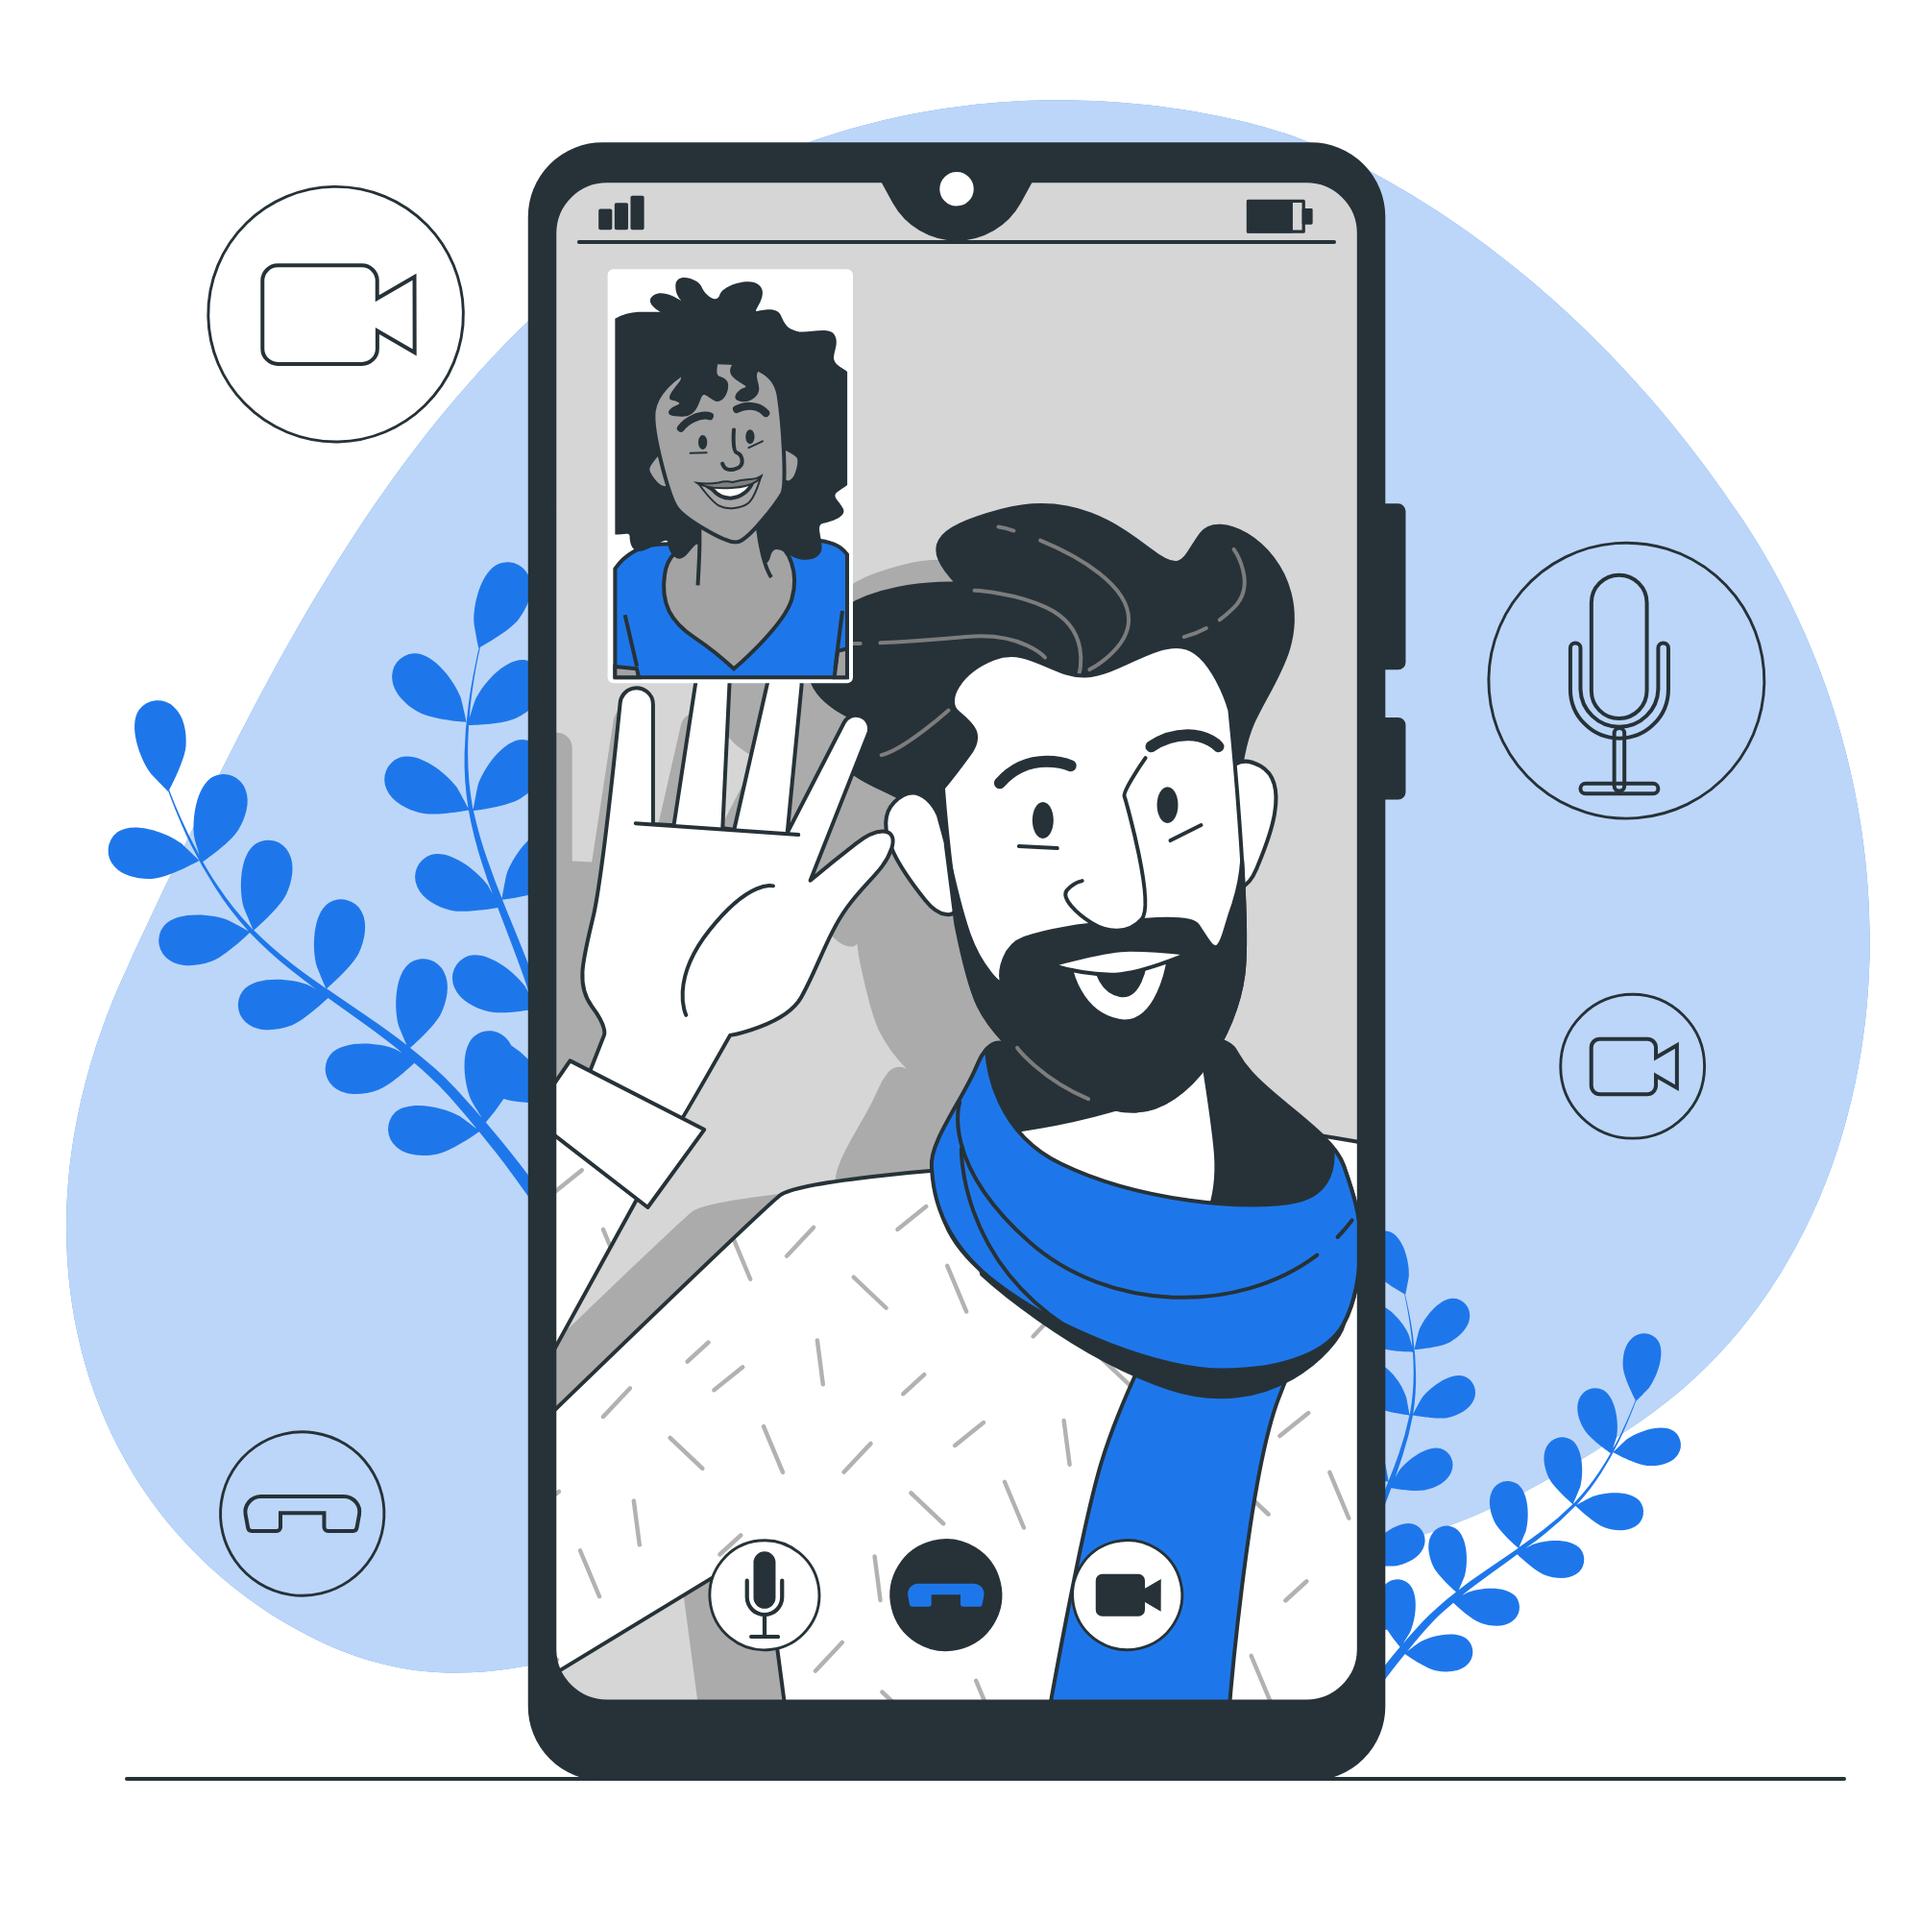
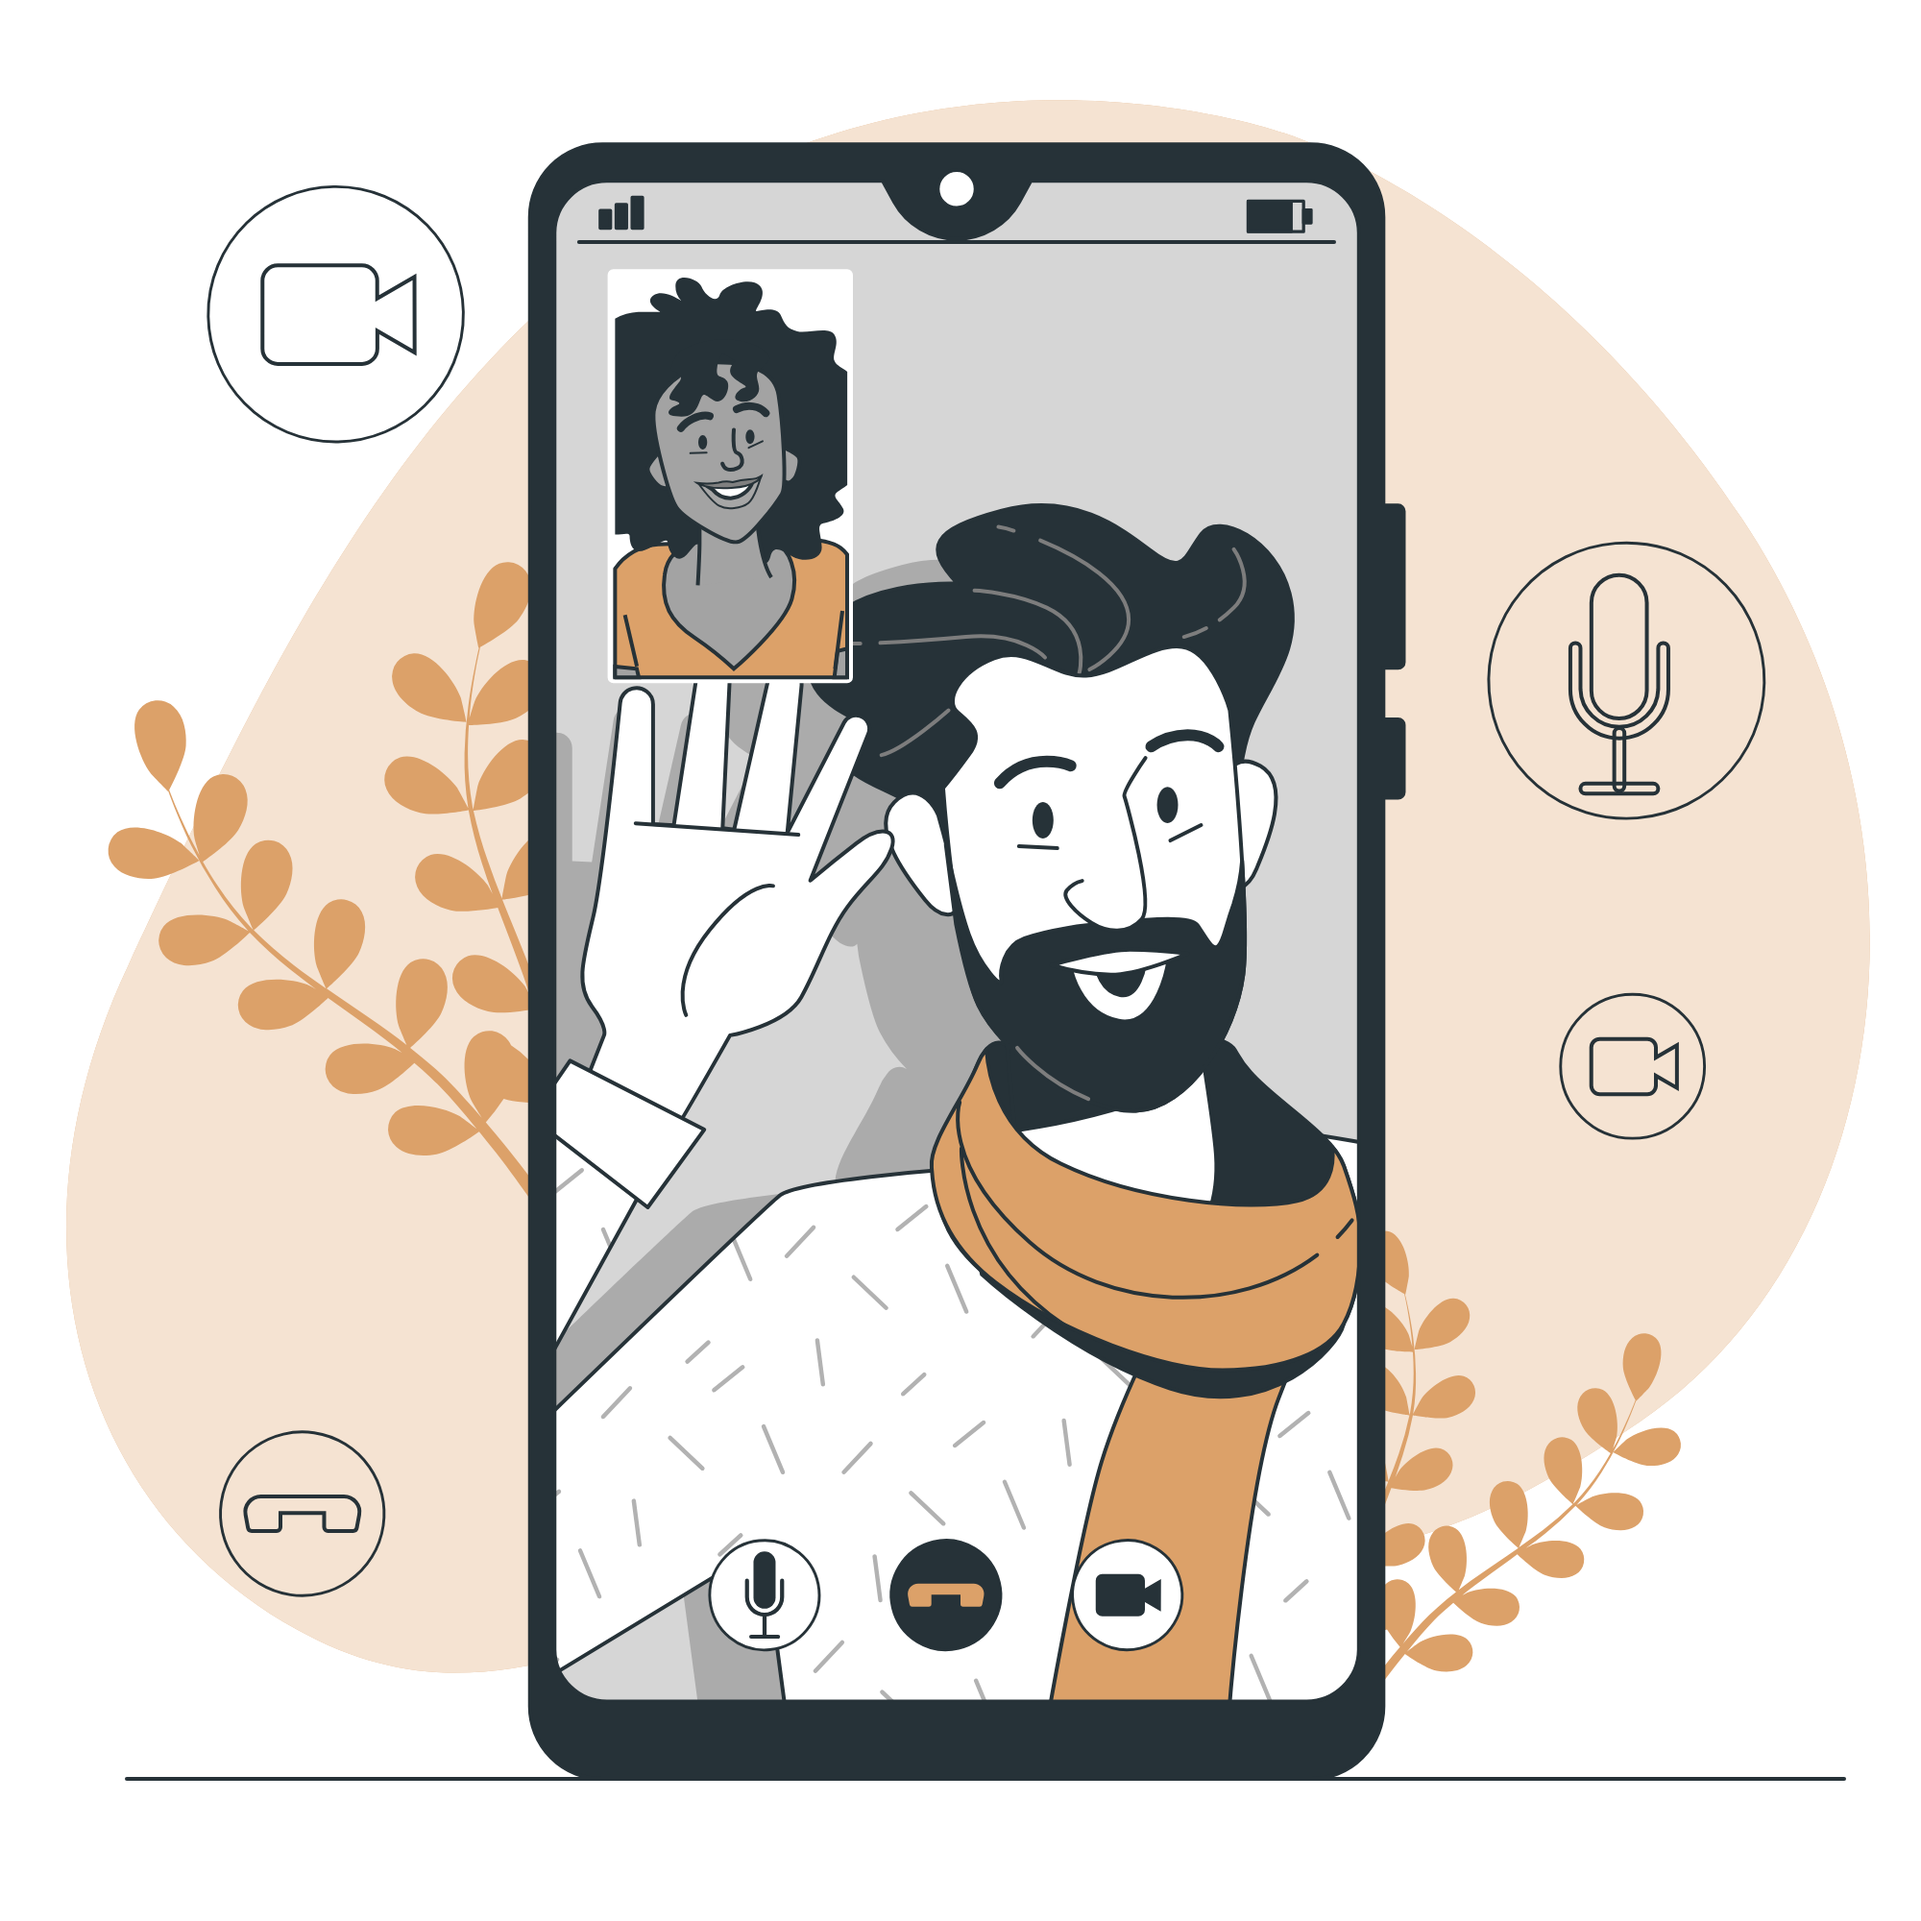
adjusted

diff --git a/frontend/src/pages/SignUpPage.jsx b/frontend/src/pages/SignUpPage.jsx
@@ -36,12 +36,15 @@ const SignupPage = () => {
       className="h-screen flex items-center justify-center p-4 sm:p-6 md:p-8"
       data-theme="forest"
     >
-      <div className="border border-primary/25 flex flex-col lg:flex-row w-full max-w-5xl mx-auto bg-base-100 rounded-xl shadow-lg overflow-hidden">
+      <div
+        className="border flex flex-col lg:flex-row w-full max-w-5xl mx-auto bg-base-100 rounded-xl shadow-lg overflow-hidden"
+        style={{borderColor: "#4F7FFF", opacity: 0.9}}
+      >
         {/* Sign up form left side */}
         <div className="w-full lg:w-1/2 p-4  sm:p-8 flex flex-col">
           {/* LOGO */}
           <div className="mb-4 flex items-center justify-start gap-2">
-            <BotMessageSquare className="size-9 text-primary" />{" "}
+            <BotMessageSquare className="size-9 text-[#4F7FFF]" />{" "}
             {/* if w and h is same then use size*/}
             <span className="text-3xl font-bold font-mono bg-clip-text text-transparent bg-gradient-to-r from-[#37506b] via-[#4F7FFF] to-[#4583c1] tracking-wider">
               FaceRipple
@@ -133,12 +136,12 @@ const SignupPage = () => {
                         I agree to the{" "}
                         <a
                           href="/terms"
-                          className="text-primary hover:underline"
+                          className="text-[#4F7FFF] hover:underline"
                         >
                           Terms of services{" "}
                         </a>
                         and{" "}
-                        <span className="text-primary hover:underline">
+                        <span className="text-[#4F7FFF] hover:underline">
                           privacy policy
                         </span>
                       </span>
@@ -163,7 +166,10 @@ const SignupPage = () => {
                   {" "}
                   <p className="text-sm">
                     Already have an Account?{" "}
-                    <Link to="/login" className="text-primary hover:underline">
+                    <Link
+                      to="/login"
+                      className="text-[#4F7FFF] hover:underline"
+                    >
                       Sign in
                     </Link>
                   </p>
@@ -173,12 +179,12 @@ const SignupPage = () => {
           </div>
         </div>
         {/* SIGNUP FORM - RIGHT SIDE */}
-        <div className="hidden lg:flex w-full lg:w-1/2 bg-primary/40 items-center justify-center">
+        <div className="hidden lg:flex w-full lg:w-1/2 bg-[#4F7FFF]/80 items-center justify-center">
           <div className="max-w-md p-8">
             {/* Illustration */}
             <div className="relative aspect-square max-w-sm mx-auto">
               <img
-                src="/s-i.png" // add your actual image src here
+                src="/s-i-1.png" // add your actual image src here
                 alt="Language connection illustration"
                 className="w-full h-full object-contain"
               />
@@ -187,7 +193,7 @@ const SignupPage = () => {
               <h2 className="text-xl font-semibold">
                 Connect with language partners worldwide
               </h2>
-              <p className=" opacity-70">
+              <p className=" opacity-90">
                 Practice conversations, make friends, and improve your language
                 skills together
               </p>

diff --git a/frontend/src/pages/LoginPage.jsx b/frontend/src/pages/LoginPage.jsx
@@ -32,13 +32,16 @@ const LoginPage = () => {
       className="h-screen flex items-center justify-center p-4 sm:p-6 md:p-8"
       data-theme="forest"
     >
-      <div className="border border-primary/25 flex flex-col lg:flex-row w-full max-w-5xl mx-auto bg-base-100 rounded-xl shadow-lg overflow-hidden">
+      <div
+        className="border flex flex-col lg:flex-row w-full max-w-5xl mx-auto bg-base-100 rounded-xl shadow-lg overflow-hidden "
+        style={{borderColor: "#4F7FFF", opacity: 0.9}}
+      >
         {/* LOGIN FORM SECTION */}
-        <div className="w-full lg:w-1/2 p-4 sm:p-8 flex flex-col">
+        <div className="w-full lg:w-1/2 p-4 sm:p-8 flex flex-col ">
           {/* LOGO */}
-          <div className="mb-4 flex items-center justify-start gap-2">
-            <BotMessageSquare className="size-9 text-primary" />
-            <span className="text-3xl font-bold font-mono bg-clip-text text-transparent bg-gradient-to-r from-primary to-secondary  tracking-wider">
+          <div className="mb-4 flex items-center justify-start gap-2 ">
+            <BotMessageSquare className="size-9 text-[#4F7FFF]" />
+            <span className="text-3xl font-bold font-mono bg-clip-text text-transparent bg-gradient-to-r from-[#476686] via-[#4F7FFF] to-[#348ee8]  tracking-wider">
               FaceRipple
             </span>
           </div>
@@ -113,7 +116,7 @@ const LoginPage = () => {
                       Don't have an account?{" "}
                       <Link
                         to="/signup"
-                        className="text-primary hover:underline"
+                        className="text-[#4F7FFF] hover:underline"
                       >
                         Create one
                       </Link>
@@ -126,12 +129,15 @@ const LoginPage = () => {
         </div>
 
         {/* IMAGE SECTION */}
-        <div className="hidden lg:flex w-full lg:w-1/2 bg-primary/40 items-center justify-center">
+        <div
+          className="hidden lg:flex w-full lg:w-1/2 items-center justify-center"
+          style={{backgroundColor: "#4F7FFF", opacity: 0.9}}
+        >
           <div className="max-w-md p-8">
             {/* Illustration */}
             <div className="relative aspect-square max-w-sm mx-auto">
               <img
-                src="/s-i.png"
+                src="/s-i-1.png"
                 alt="Language connection illustration"
                 className="w-full h-full"
               />
@@ -141,7 +147,7 @@ const LoginPage = () => {
               <h2 className="text-xl font-semibold">
                 Connect with language partners worldwide
               </h2>
-              <p className="opacity-70">
+              <p className="opacity-80">
                 Practice conversations, make friends, and improve your language
                 skills together
               </p>

diff --git a/frontend/src/components/PageLoader.jsx b/frontend/src/components/PageLoader.jsx
@@ -1,10 +1,15 @@
 import {LoaderIcon} from "lucide-react";
 import React from "react";
 import {LoaderCircle} from "lucide-react";
+import {useThemeStore} from "../store/useThemeStore";
 
 const PageLoader = () => {
+  const {theme} = useThemeStore();
   return (
-    <div className="min-h-screen flex items-center justify-center">
+    <div
+      className="min-h-screen flex items-center justify-center"
+      data-theme={theme}
+    >
       <LoaderIcon className="animate-spin text-primary" size={48} />
       {/* <LoaderCircle className="animate-spin text-primary" size={48} /> */}
     </div>

diff --git a/frontend/tailwind.config.js b/frontend/tailwind.config.js
@@ -4,10 +4,10 @@ export default {
   content: ["./index.html", "./src/**/*.{js,ts,jsx,tsx}"],
   theme: {
     extend: {
-      colors: {
-        primary: "#4F7FFF",
-        secondary: "#4F7FFF",
-      },
+      // colors: {
+      //   primary: "#4F7FFF", // default color
+      //   secondary: "#4F7FFF",
+      // },
     },
   },
   plugins: [daisyui],
